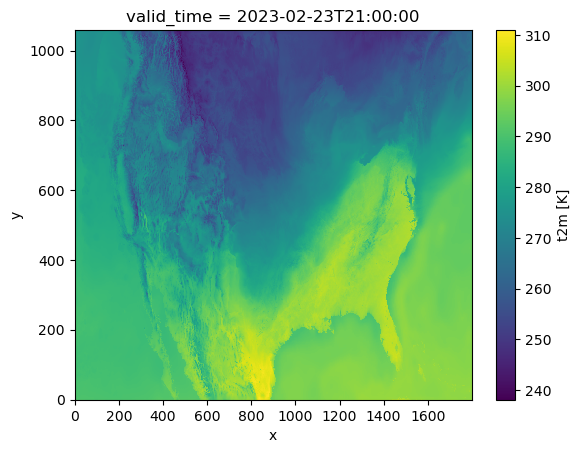
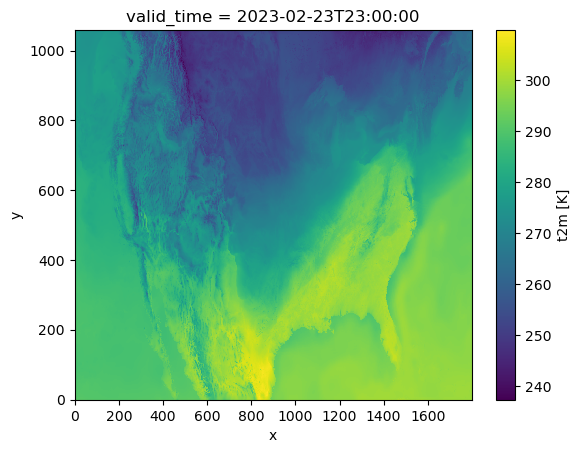
deploy: accb1b0d60847b492e0cbcad3e878b663cbc4773

diff --git a/_preview/21/searchindex.js b/_preview/21/searchindex.js
@@ -1,1 +1,1 @@
-Search.setIndex({docnames:["README","notebooks/case_studies/ARG_Weather","notebooks/case_studies/HRRR","notebooks/foundations/kerchunk_basics","notebooks/foundations/kerchunk_dask","notebooks/foundations/kerchunk_multi_file"],envversion:{"sphinx.domains.c":2,"sphinx.domains.changeset":1,"sphinx.domains.citation":1,"sphinx.domains.cpp":5,"sphinx.domains.index":1,"sphinx.domains.javascript":2,"sphinx.domains.math":2,"sphinx.domains.python":3,"sphinx.domains.rst":2,"sphinx.domains.std":2,"sphinx.ext.intersphinx":1,sphinx:56},filenames:["README.md","notebooks/case_studies/ARG_Weather.ipynb","notebooks/case_studies/HRRR.ipynb","notebooks/foundations/kerchunk_basics.ipynb","notebooks/foundations/kerchunk_dask.ipynb","notebooks/foundations/kerchunk_multi_file.ipynb"],objects:{},objnames:{},objtypes:{},terms:{"0":[1,2,4,5],"00":[1,2],"01":[1,2,3],"02":2,"03":2,"04":2,"05":2,"06":2,"07":2,"08":2,"0x7f90947226e0":3,"0x7fe0fcae5ea0":2,"0x7fe0fcb2d630":2,"1":[1,2,4,5],"10":[1,2],"100":[2,3],"11":2,"12":[1,2],"127":4,"13":2,"13km":2,"14":2,"15":2,"16":[2,3],"17":2,"18":2,"19":2,"2":[1,2],"20":2,"2022":1,"2023":1,"20230223":2,"2060":[3,4,5],"21":2,"225":4,"24":2,"25":2,"26":[1,2,3],"29":2,"3":[2,4],"30":2,"300":[1,4,5],"31":1,"32":2,"33":2,"34":2,"35":2,"36":4,"38":2,"3km":2,"4":2,"40":[2,4],"42":2,"43":2,"44":2,"45":[1,2,4],"46":2,"48":2,"4km":1,"4x":4,"5":2,"50":2,"500":[1,2],"52":2,"53":2,"54":[2,4],"55":2,"56":2,"57":2,"58":2,"5kb":3,"6":2,"60":[3,5],"62":2,"67":2,"7":2,"71":2,"72":1,"76":2,"77":2,"8":[2,4],"80":2,"81":2,"86":2,"8787":4,"88":2,"89":2,"8mb":3,"9":2,"90":2,"92":2,"95":2,"byte":[0,3],"case":[3,4],"class":5,"default":5,"do":[1,5],"final":5,"function":[0,1,2,4,5],"import":[0,4],"meteorol\u00f3gico":1,"new":[0,5],"public":[3,5],"return":[1,2,4,5],"short":3,"super":4,"true":[1,2,3,4,5],"try":4,"while":3,A:4,As:[3,4],By:4,For:[0,1,4],IS:5,If:[0,1],In:[0,1,3,4,5],It:4,One:[2,4],The:[0,1,2,3,4,5],There:4,These:[0,3,4],To:[1,2,4],With:4,_:2,_messag:2,abl:0,about:[3,4],abov:1,access:[0,1,2,3,5],across:[1,4,5],act:5,activ:0,ad:[0,2,5],add:0,addit:3,addition:4,address:4,adopt:1,affect:4,afilt:2,after:[0,5],agenc:1,ak:[3,4,5],alaska:[3,4,5],all:[0,1,2,4,5],allow:[0,2,4],along:[1,3,4,5],also:[2,3],altern:[0,1,5],although:1,amount:1,an:[0,1,2,3,4,5],analysi:[0,1,2],ani:[3,4,5],anon:[1,2,3,4,5],anoth:2,anyon:5,anywher:3,api:3,append:[0,1,2,5],ar5:[3,4,5],ar:[0,1,2,3,4,5],archiv:[0,2,4,5],arco:[0,1,2],arg:1,arg_combin:1,argentina:1,argument:[2,3,4,5],assimil:2,atmospher:[1,2],auto_dask:4,avail:[0,2,4,5],avoid:3,aw:[1,2,3,4,5],axi:5,back:5,backend:0,backend_kwarg:[2,3,5],base:5,basic:[1,2,4,5],bdp:2,becaus:5,been:1,befor:[1,4],being:[0,1,4],below:[3,4],benchmark:4,benefit:0,better:4,between:3,binari:2,bit:4,block:[1,3,5],book:0,borrow:2,breakdown:1,broken:0,bucket:[3,5],bui:3,build:5,built:[4,5],bunch:4,cach:3,call:[4,5],can:[0,1,2,3,4],ccsm:[3,4,5],cd:0,cell:[0,1,2,3,4],center:1,certain:2,chang:0,chapter:0,check:[1,4],choos:5,chunk:[0,2,3],click:0,climat:[3,4,5],clone:0,cloud:[0,1,2,3,4,5],code:[0,1,4],cog:0,collect:[0,2,3,5],com:0,combin:[0,4],combined_kerchunk:5,combined_refer:5,commun:1,comparison:4,compat:[2,4],complet:0,compon:2,compress:[0,3],comput:[0,4],concat_dim:[1,2,5],concaten:[1,5],concept:[1,2,3,4,5],conda:0,confus:1,connect:3,consider:1,consolid:[1,2,3,5],contain:2,content:[0,3],contribut:0,conu:2,convect:2,conveni:4,coordin:2,copi:[0,2,5],core:[1,2,4],corner:0,could:[0,1,2,3,4,5],countless:4,countri:1,cover:[0,1,2,4,5],creat:[0,3,4],creation:4,creator:0,credenti:3,current:0,dai:[2,4,5],daili:[1,3,4,5],dashboard:4,dask:[0,1,5],data:[0,1,2,3],dataset:[0,4],date:2,datetim:2,days_avail:2,de:1,def:[1,2,4,5],default_cache_typ:[1,3,4,5],default_fill_cach:[1,3,4,5],defin:4,definit:3,delai:4,demonstr:[0,3,4],depend:4,describ:0,det:1,detail:[0,1,2,3,4,5],determinist:1,develop:0,dict:[1,2,3,4,5],dictionari:[1,3,5],dimens:[1,2,5],direct:1,directori:[0,1,5],disk:[1,3,5],disribut:4,distribut:4,dive:0,doc:[0,3],document:0,doe:2,doesn:5,don:3,download:3,downscal:[3,4],ds:[1,2,3,5],dt:2,dump:[1,2,3,4,5],durant:0,each:[0,1,2,4,5],eagerli:4,earlier:4,earth:1,easier:2,east:5,eastern:4,ecosystem:4,effici:[2,3],either:0,els:5,enabl:0,encod:[1,2,3,4,5],end:4,engin:[1,2,3,5],enhanc:2,ensur:[2,5],enter:0,enumer:2,env:0,environ:0,error:4,etc:1,even:[0,4,5],everi:2,ex:5,examin:[2,3],exampl:[0,1,2,3,4,5],execut:0,expect:5,explicit:5,explor:4,extract:[0,3],f:[0,1,2,3,4,5],factor:4,fals:[1,2,3,4,5],far:4,faster:4,featur:[3,5],few:[3,4,5],fil:[1,4,5],file:[0,4],file_pattern:[1,4],file_url:2,filelist:[1,2,5],filenam:5,files_path:[1,4,5],filesystem:[1,2,3,4,5],filesytem:5,filter:2,first:[0,1,2,3,4,5],fit:0,fname:[1,4,5],fo:[1,2,3,5],follow:[0,1,3,4],form:2,format:[0,1,2,3],fortun:[1,4],found:[1,3,5],foundat:1,four:2,from:[0,1,2,3,4],fs:[1,2,3,5],fs_read:[1,2,4,5],fs_write:[1,2,4,5],fsspec:[1,2,4],further:[2,4],gen_json:2,gener:[0,1,2,4],generate_json_refer:[1,4,5],geograph:4,get:[0,2,5],get_mapp:[1,2,3,5],gist:2,git:0,github:0,give:3,given:[4,5],glob:[1,2,4,5],good:[1,5],got:4,grab:1,greatli:4,grib2:0,grib:2,grid:2,gritti:0,guid:4,h5chunk:[1,3,4,5],h5netcdf:1,h:2,ha:[1,4],had:5,hagen:0,happen:[0,4],happili:2,hard:4,have:[0,1,3,4],hdf5:[0,2,3],hdf:[1,3,4,5],heavili:2,heightaboveground:2,help:[3,4],here:[1,2,3,4],hour:1,hourli:[1,2],how:[0,1,2,3,4,5],howev:[2,4,5],hrrr_combin:2,http:[0,4],hub:4,huge:1,humid:1,i:2,icon:0,idea:0,ident:2,identical_dim:[1,2,5],improv:4,includ:[0,4],index:4,indic:[1,2],indici:4,individu:[1,2,5],inf:3,infil:[1,4,5],inform:[0,2,3,4,5],initi:[1,2,4,5],inline_threshold:[1,2,3,4,5],input:[3,4],inspir:0,instal:0,instead:[0,4,5],intak:[1,2],integr:4,intend:[3,4,5],interact:0,interest:[0,2],internet:4,interp_level:5,interv:1,intro:4,introduct:[1,2,3,4,5],io:[1,2,4,5],isel:[1,5],issu:0,iter:[1,4,5],its:4,json:[0,3,4],json_dir:[2,4],jupyt:0,jupyterlab:0,just:[4,5],keep:[3,5],kerchunk_bas:1,km:2,know:[0,1,2],kwarg:[1,4],lab:[0,1],laptop:4,larg:[3,4],larger:4,later:[1,5],latest:2,latitud:2,launch:0,lazi:4,lead:1,learn:[1,2,3,4,5],legaci:[1,2],len:5,let:4,level:[1,2],librari:[0,3,4,5],like:[0,4],limit:4,line2d:2,line:[1,2,4],list:4,live:[0,2],ll:0,local:[0,1,2,3,4,5],locat:4,log:4,logic:1,longer:5,longitud:2,look:4,loop:[2,4,5],lower:3,m:[1,2,5],machin:4,magnitud:1,mai:[3,4,5],make:[2,4],make_json_nam:2,mani:[0,1,2,3,4],map:[2,3,5],mapper:5,marsh:2,martin:0,match:5,materi:0,matplotlib:[2,3],maximum:1,mean:4,meant:4,measur:2,memori:[1,3,5],messag:2,message_numb:2,metadata:3,meteorolog:2,method:[1,3,4,5],min:2,minut:[1,2,3,4,5],mode:[1,4,5],model:[1,2],modifi:4,moment:0,monitor:4,more:[0,1,4],most:1,mous:0,move:0,much:[0,1,3],multi:[0,1,2,4],multi_kerchunk:[1,2,5],multipl:[1,2,4,5],multizarrtozarr:[1,2,4,5],mutipl:2,mzz:[1,2,5],n_worker:4,nacion:1,name:[2,3,4,5],nation:2,navig:[0,4],nc:[1,3,4,5],neccassari:2,necessari:5,necessarili:2,need:[0,1,3,5],neighbor:1,netcdf3:0,netcdf4:[0,1,3,4],netcdf:[2,4],newli:0,next:[1,2,3],nitti:0,note:[0,1,2,3,4],notebook:[1,2,3,4,5],now:[0,1,5],number:1,object:[2,4,5],off:5,onc:4,one:[1,2,4],onli:[1,2,3,5],open:[0,1,2,3,4],open_dataset:[1,2,3,5],oper:1,optim:[0,1,2,4],option:[1,2,3],origin:[3,5],other:[1,4],our:[2,3,5],out:[1,2,3,4],out_file_nam:2,outf:[1,4,5],output:[0,1,2,3],output_dir:[1,4,5],output_fil:[1,5],output_fnam:[1,2,5],over:[1,2,4,5],page:0,parallel:[0,2,5],parquet:[0,4],pass:[1,2,3,4,5],path:2,pd:2,per:[2,4],perform:4,period:2,peter:2,piec:5,plai:4,pleas:[0,1],plot:1,point:[1,3,4,5],popul:4,possibl:0,pr:0,precipit:1,predict:1,prefix:[1,2,4,5],prepend:[1,4,5],present:0,press:0,previou:5,primari:[0,2],principl:1,print:5,process:[0,3,5],product:3,program:0,progress:[4,5],project:0,projectpythia:0,proven:3,provid:2,pure:1,pythia:0,python:[3,4],quadmesh:[2,3],radar:2,rang:[0,3],raphael:0,rapidli:0,rb:[1,4,5],rcp85:[3,4,5],re:4,read:[0,1,2,3,4,5],readi:[0,2,4],real:2,rechunk:5,recip:5,recommend:[1,2,4,5],record:[1,2,5],reduc:[1,2],refer:[0,4],reference_json:2,refernec:5,region:1,registri:2,rel:1,releas:[0,2],remind:4,remot:[1,2,3,5],remote_opt:[1,2,3,5],remote_protocol:[1,2,3,5],repeat:5,replac:5,repo:0,repositori:0,repr:1,requir:[1,2,4,5],resolv:2,resourc:4,result:5,retriev:[2,4,5],reus:5,right:0,rocket:0,run:[4,5],s3:[1,2,3,4,5],s3f:[1,3,5],s3filesystem:1,s:[1,3,4],sai:4,same:4,save:[1,3,5],scale:4,scan:[1,3],scan_grib:2,schedul:0,scienc:1,scientif:1,se:[3,4,5],second:4,section:[1,2,3,4],see:[0,1,2,3,4],select:[0,1,2,5],separ:[2,5],serial:4,servicio:1,set:[0,1,2,3,5],setup:4,share:[1,2,5],shift:0,ship:0,should:[0,4],show:4,silence_log:4,similar:[1,2,5],simpl:5,simplest:0,simpli:0,simplifi:5,sinc:[2,5],singl:[0,2,4,5],single_file_kerchunk:3,singlehdf5tozarr:[1,3,4,5],size:3,skip_instance_cach:[1,2,3,4,5],slice:[1,3],slightli:4,small:4,smn:1,snow:5,so:[1,2,3,4,5],some:[0,1,2,4,5],someth:4,sort:[1,2,4,5],sourc:[0,4],south:[4,5],southern:5,spatial:1,spec:[0,3],special:0,specif:[0,1,5],specifi:[3,5],specifii:1,speed:[1,2,4],speedup:[1,4,5],split:[1,2,4,5],start:[0,5],statu:4,step:[1,2,3,5],storag:[0,1],storage_opt:2,store:[3,5],storeg:1,str:[1,4,5],strategi:3,strictli:5,string:[1,5],strip:[1,4,5],studi:4,summari:0,suppli:5,support:[0,1,2],sure:0,system:[2,3,5],t00z:2,t01z:2,t02z:2,t03z:2,t04z:2,t05z:2,t06z:2,t07z:2,t08z:2,t09z:2,t10z:2,t11z:2,t12z:2,t13z:2,t14z:2,t15z:2,t16z:2,t17z:2,t18z:2,t19z:2,t20z:2,t2:1,t2m:2,t:[3,5],tack:5,take:4,tell:1,temperatur:[1,2],temporari:5,tend:3,thank:0,thei:[0,1,2,3,5],them:[0,1,2,5],thi:[0,1,2,3,4],those:[3,5],though:4,through:[0,1,3,4,5],thu:2,tiff:0,time:[2,3,5],tmax:3,too:3,took:4,top:0,tqdm:[1,2,5],translat:[1,2,3,4,5],tslb:1,tune:4,tutori:[0,3,4,5],twice:1,two:[0,4],type:[2,4,5],typeoflevel:2,typic:[3,5],u:[1,5],ujson:[1,2,3,4,5],uncom:[1,2],underli:3,understand:4,uniqu:2,univers:1,until:0,up:[0,1,2],updat:2,upon:4,url:[1,3,5],us:[0,3,4],usag:3,usual:4,utc:1,valid_tim:2,vari:[4,5],variabl:[1,2,5],veri:3,version:4,via:[0,2],view:[0,1],virtual:[0,3,4,5],visual:[1,2,4,5],vs:4,w:2,wa:0,wai:[0,4,5],walk:4,want:3,water:2,wb:[1,2,3,4,5],we:[0,1,2,3,4],weather:2,well:[0,1,3,4,5],were:[0,1,2,3,4,5],what:[0,1,4],when:[1,2,3,4],where:4,which:[0,1,2,4],whole:3,wildcard:[1,5],wind:1,wish:4,within:[1,2],without:[3,5],work:[0,5],worker:4,workflow:[0,5],worri:3,would:0,wrf:[1,3,4,5],wrfdetar_01h_20221231_00_072:1,wrfds_2060:3,wrfsfcf01:2,write:[0,3,4],written:[1,3],x:1,xarrai:[0,1,2,3,4],xlat:5,xlong:5,xr:[1,2,3,4,5],y:1,year:4,yml:0,you:[0,1,3,4],your:4,zarr:[0,1,2,3,5]},titles:["Kerchunk Cookbook","Kerchunk and NetCDF/HDF5:  A Case Study using the Argentinian High Resolution Weather Forecast Dataset","Kerchunk and GRIB2:  A Case Study using NOAA\u2019s High-Resolution Rapid Refresh (HRRR) Dataset","Kerchunk Basics","Kerchunk and Dask","Multi-File Datasets with Kerchunk"],titleterms:{"1":0,"2":0,"365":5,"7":5,"case":[0,1,2],"import":[1,2,3,5],"try":5,A:[1,2],As:5,If:5,To:5,about:[1,2],addit:0,argentinian:1,author:0,basic:3,befor:5,below:5,binder:0,build:4,can:5,cell:5,chang:4,check:5,client:4,climt:5,code:5,combin:[1,2,5],contributor:0,cookbook:0,creat:[1,2,5],dask:4,data:[4,5],dataset:[1,2,3,5],defin:[3,5],downscal:5,everi:5,examin:[1,5],file:[1,2,3,5],file_pattern:5,forecast:1,foundat:0,from:5,fsspec:[3,5],futur:[0,5],gener:5,go:5,graph:4,grib2:2,have:5,hdf5:1,here:5,high:[1,2],hrrr:2,index:[1,5],indici:2,input:[1,2,5],iter:2,json:[1,2,5],kerchunk:[0,1,2,3,4,5],kwarg:[3,5],like:5,list:[1,2,5],load:[1,2,3],look:5,machin:0,map:1,motiv:[0,1,2],multi:5,netcdf:[1,3,5],next:[4,5],noaa:2,note:5,notebook:0,off:4,one:5,open:5,option:5,our:4,output:5,overview:[1,2,3,4,5],own:0,parallel:4,pars:3,path:5,pattern:5,plot:[2,3,5],prerequisit:[1,2,3,4,5],previou:4,process:4,quick:5,rapid:2,reduc:5,refer:[1,2,3,5],refresh:2,resolut:[1,2],run:0,s:[2,5],section:[0,5],seri:1,set:4,should:5,singl:[1,3],slice:[2,5],snippet:5,specif:4,speed:5,start:4,step:4,structur:0,studi:[0,1,2],subset:4,task:4,thi:5,through:2,time:[1,4],uncom:5,up:[4,5],us:[1,2,5],view:5,want:5,we:5,weather:1,week:5,which:5,wishlist:0,work:4,worth:5,write:[1,2,5],xarrai:5,year:5,you:5,your:0}})
+Search.setIndex({docnames:["README","notebooks/case_studies/ARG_Weather","notebooks/case_studies/HRRR","notebooks/foundations/kerchunk_basics","notebooks/foundations/kerchunk_dask","notebooks/foundations/kerchunk_multi_file"],envversion:{"sphinx.domains.c":2,"sphinx.domains.changeset":1,"sphinx.domains.citation":1,"sphinx.domains.cpp":5,"sphinx.domains.index":1,"sphinx.domains.javascript":2,"sphinx.domains.math":2,"sphinx.domains.python":3,"sphinx.domains.rst":2,"sphinx.domains.std":2,"sphinx.ext.intersphinx":1,sphinx:56},filenames:["README.md","notebooks/case_studies/ARG_Weather.ipynb","notebooks/case_studies/HRRR.ipynb","notebooks/foundations/kerchunk_basics.ipynb","notebooks/foundations/kerchunk_dask.ipynb","notebooks/foundations/kerchunk_multi_file.ipynb"],objects:{},objnames:{},objtypes:{},terms:{"0":[1,2,4,5],"00":[1,2],"01":[1,2,3],"02":2,"03":2,"04":2,"05":2,"06":2,"07":2,"08":2,"0x7f0d3cbeb1f0":3,"0x7fea5831fb20":2,"0x7fea58596d70":2,"1":[1,2,4,5],"10":[1,2],"100":[2,3],"11":2,"12":[1,2],"127":4,"13":2,"13km":2,"14":2,"15":2,"16":[2,3],"17":2,"18":2,"19":2,"2":[1,2],"20":2,"2022":1,"2023":1,"20230223":2,"2060":[3,4,5],"21":2,"22":2,"225":4,"23":2,"25":2,"26":[1,2,3],"27":2,"28":2,"29":2,"3":[2,4],"30":2,"300":[1,4,5],"31":[1,2],"33":2,"34":2,"35":2,"36":[2,4],"37":2,"38":2,"39":2,"3km":2,"4":2,"40":[2,4],"41":2,"42":2,"43":2,"44":2,"45":[1,2,4],"46":2,"47":2,"48":2,"4km":1,"4x":4,"5":2,"500":[1,2],"51":2,"52":2,"54":[2,4],"55":2,"57":2,"58":2,"59":2,"5kb":3,"6":2,"60":[3,5],"61":2,"65":2,"7":2,"70":2,"72":[1,2],"74":2,"78":2,"8":[2,4],"83":2,"84":2,"85":2,"87":2,"8787":4,"88":2,"8mb":3,"9":2,"91":2,"92":2,"96":2,"99":2,"byte":[0,3],"case":[3,4],"class":5,"default":5,"do":[1,5],"final":5,"function":[0,1,2,4,5],"import":[0,4],"meteorol\u00f3gico":1,"new":[0,5],"public":[3,5],"return":[1,2,4,5],"short":3,"super":4,"true":[1,2,3,4,5],"try":4,"while":3,A:4,As:[3,4],By:4,For:[0,1,4],IS:5,If:[0,1],In:[0,1,3,4,5],It:4,One:[2,4],The:[0,1,2,3,4,5],There:4,These:[0,3,4],To:[1,2,4],With:4,_:2,_messag:2,abl:0,about:[3,4],abov:1,access:[0,1,2,3,5],across:[1,4,5],act:5,activ:0,ad:[0,2,5],add:0,addit:3,addition:4,address:4,adopt:1,affect:4,afilt:2,after:[0,5],agenc:1,ak:[3,4,5],alaska:[3,4,5],all:[0,1,2,4,5],allow:[0,2,4],along:[1,3,4,5],also:[2,3],altern:[0,1,5],although:1,amount:1,an:[0,1,2,3,4,5],analysi:[0,1,2],ani:[3,4,5],anon:[1,2,3,4,5],anoth:2,anyon:5,anywher:3,api:3,append:[0,1,2,5],ar5:[3,4,5],ar:[0,1,2,3,4,5],archiv:[0,2,4,5],arco:[0,1,2],arg:1,arg_combin:1,argentina:1,argument:[2,3,4,5],assimil:2,atmospher:[1,2],auto_dask:4,avail:[0,2,4,5],avoid:3,aw:[1,2,3,4,5],axi:5,back:5,backend:0,backend_kwarg:[2,3,5],base:5,basic:[1,2,4,5],bdp:2,becaus:5,been:1,befor:[1,4],being:[0,1,4],below:[3,4],benchmark:4,benefit:0,better:4,between:3,binari:2,bit:4,block:[1,3,5],book:0,borrow:2,breakdown:1,broken:0,bucket:[3,5],bui:3,build:5,built:[4,5],bunch:4,cach:3,call:[4,5],can:[0,1,2,3,4],ccsm:[3,4,5],cd:0,cell:[0,1,2,3,4],center:1,certain:2,chang:0,chapter:0,check:[1,4],choos:5,chunk:[0,2,3],click:0,climat:[3,4,5],clone:0,cloud:[0,1,2,3,4,5],code:[0,1,4],cog:0,collect:[0,2,3,5],com:0,combin:[0,4],combined_kerchunk:5,combined_refer:5,commun:1,comparison:4,compat:[2,4],complet:0,compon:2,compress:[0,3],comput:[0,4],concat_dim:[1,2,5],concaten:[1,5],concept:[1,2,3,4,5],conda:0,confus:1,connect:3,consider:1,consolid:[1,2,3,5],contain:2,content:[0,3],contribut:0,conu:2,convect:2,conveni:4,coordin:2,copi:[0,2,5],core:[1,2,4],corner:0,could:[0,1,2,3,4,5],countless:4,countri:1,cover:[0,1,2,4,5],creat:[0,3,4],creation:4,creator:0,credenti:3,current:0,dai:[2,4,5],daili:[1,3,4,5],dashboard:4,dask:[0,1,5],data:[0,1,2,3],dataset:[0,4],date:2,datetim:2,days_avail:2,de:1,def:[1,2,4,5],default_cache_typ:[1,3,4,5],default_fill_cach:[1,3,4,5],defin:4,definit:3,delai:4,demonstr:[0,3,4],depend:4,describ:0,det:1,detail:[0,1,2,3,4,5],determinist:1,develop:0,dict:[1,2,3,4,5],dictionari:[1,3,5],dimens:[1,2,5],direct:1,directori:[0,1,5],disk:[1,3,5],disribut:4,distribut:4,dive:0,doc:[0,3],document:0,doe:2,doesn:5,don:3,download:3,downscal:[3,4],ds:[1,2,3,5],dt:2,dump:[1,2,3,4,5],durant:0,each:[0,1,2,4,5],eagerli:4,earlier:4,earth:1,easier:2,east:5,eastern:4,ecosystem:4,effici:[2,3],either:0,els:5,enabl:0,encod:[1,2,3,4,5],end:4,engin:[1,2,3,5],enhanc:2,ensur:[2,5],enter:0,enumer:2,env:0,environ:0,error:4,etc:1,even:[0,4,5],everi:2,ex:5,examin:[2,3],exampl:[0,1,2,3,4,5],execut:0,expect:5,explicit:5,explor:4,extract:[0,3],f:[0,1,2,3,4,5],factor:4,fals:[1,2,3,4,5],far:4,faster:4,featur:[3,5],few:[3,4,5],fil:[1,4,5],file:[0,4],file_pattern:[1,4],file_url:2,filelist:[1,2,5],filenam:5,files_path:[1,4,5],filesystem:[1,2,3,4,5],filesytem:5,filter:2,first:[0,1,2,3,4,5],fit:0,fname:[1,4,5],fo:[1,2,3,5],follow:[0,1,3,4],form:2,format:[0,1,2,3],fortun:[1,4],found:[1,3,5],foundat:1,four:2,from:[0,1,2,3,4],fs:[1,2,3,5],fs_read:[1,2,4,5],fs_write:[1,2,4,5],fsspec:[1,2,4],further:[2,4],gen_json:2,gener:[0,1,2,4],generate_json_refer:[1,4,5],geograph:4,get:[0,2,5],get_mapp:[1,2,3,5],gist:2,git:0,github:0,give:3,given:[4,5],glob:[1,2,4,5],good:[1,5],got:4,grab:1,greatli:4,grib2:0,grib:2,grid:2,gritti:0,guid:4,h5chunk:[1,3,4,5],h5netcdf:1,h:2,ha:[1,4],had:5,hagen:0,happen:[0,4],happili:2,hard:4,have:[0,1,3,4],hdf5:[0,2,3],hdf:[1,3,4,5],heavili:2,heightaboveground:2,help:[3,4],here:[1,2,3,4],hour:1,hourli:[1,2],how:[0,1,2,3,4,5],howev:[2,4,5],hrrr_combin:2,http:[0,4],hub:4,huge:1,humid:1,i:2,icon:0,idea:0,ident:2,identical_dim:[1,2,5],improv:4,includ:[0,4],index:4,indic:[1,2],indici:4,individu:[1,2,5],inf:3,infil:[1,4,5],inform:[0,2,3,4,5],initi:[1,2,4,5],inline_threshold:[1,2,3,4,5],input:[3,4],inspir:0,instal:0,instead:[0,4,5],intak:[1,2],integr:4,intend:[3,4,5],interact:0,interest:[0,2],internet:4,interp_level:5,interv:1,intro:4,introduct:[1,2,3,4,5],io:[1,2,4,5],isel:[1,5],issu:0,iter:[1,4,5],its:4,json:[0,3,4],json_dir:[2,4],jupyt:0,jupyterlab:0,just:[4,5],keep:[3,5],kerchunk_bas:1,km:2,know:[0,1,2],kwarg:[1,4],lab:[0,1],laptop:4,larg:[3,4],larger:4,later:[1,5],latest:2,latitud:2,launch:0,lazi:4,lead:1,learn:[1,2,3,4,5],legaci:[1,2],len:5,let:4,level:[1,2],librari:[0,3,4,5],like:[0,4],limit:4,line2d:2,line:[1,2,4],list:4,live:[0,2],ll:0,local:[0,1,2,3,4,5],locat:4,log:4,logic:1,longer:5,longitud:2,look:4,loop:[2,4,5],lower:3,m:[1,2,5],machin:4,magnitud:1,mai:[3,4,5],make:[2,4],make_json_nam:2,mani:[0,1,2,3,4],map:[2,3,5],mapper:5,marsh:2,martin:0,match:5,materi:0,matplotlib:[2,3],maximum:1,mean:4,meant:4,measur:2,memori:[1,3,5],messag:2,message_numb:2,metadata:3,meteorolog:2,method:[1,3,4,5],min:2,minut:[1,2,3,4,5],mode:[1,4,5],model:[1,2],modifi:4,moment:0,monitor:4,more:[0,1,4],most:1,mous:0,move:0,much:[0,1,3],multi:[0,1,2,4],multi_kerchunk:[1,2,5],multipl:[1,2,4,5],multizarrtozarr:[1,2,4,5],mutipl:2,mzz:[1,2,5],n_worker:4,nacion:1,name:[2,3,4,5],nation:2,navig:[0,4],nc:[1,3,4,5],neccassari:2,necessari:5,necessarili:2,need:[0,1,3,5],neighbor:1,netcdf3:0,netcdf4:[0,1,3,4],netcdf:[2,4],newli:0,next:[1,2,3],nitti:0,note:[0,1,2,3,4],notebook:[1,2,3,4,5],now:[0,1,5],number:1,object:[2,4,5],off:5,onc:4,one:[1,2,4],onli:[1,2,3,5],open:[0,1,2,3,4],open_dataset:[1,2,3,5],oper:1,optim:[0,1,2,4],option:[1,2,3],origin:[3,5],other:[1,4],our:[2,3,5],out:[1,2,3,4],out_file_nam:2,outf:[1,4,5],output:[0,1,2,3],output_dir:[1,4,5],output_fil:[1,5],output_fnam:[1,2,5],over:[1,2,4,5],page:0,parallel:[0,2,5],parquet:[0,4],pass:[1,2,3,4,5],path:2,pd:2,per:[2,4],perform:4,period:2,peter:2,piec:5,plai:4,pleas:[0,1],plot:1,point:[1,3,4,5],popul:4,possibl:0,pr:0,precipit:1,predict:1,prefix:[1,2,4,5],prepend:[1,4,5],present:0,press:0,previou:5,primari:[0,2],principl:1,print:5,process:[0,3,5],product:3,program:0,progress:[4,5],project:0,projectpythia:0,proven:3,provid:2,pure:1,pythia:0,python:[3,4],quadmesh:[2,3],radar:2,rang:[0,3],raphael:0,rapidli:0,rb:[1,4,5],rcp85:[3,4,5],re:4,read:[0,1,2,3,4,5],readi:[0,2,4],real:2,rechunk:5,recip:5,recommend:[1,2,4,5],record:[1,2,5],reduc:[1,2],refer:[0,4],reference_json:2,refernec:5,region:1,registri:2,rel:1,releas:[0,2],remind:4,remot:[1,2,3,5],remote_opt:[1,2,3,5],remote_protocol:[1,2,3,5],repeat:5,replac:5,repo:0,repositori:0,repr:1,requir:[1,2,4,5],resolv:2,resourc:4,result:5,retriev:[2,4,5],reus:5,right:0,rocket:0,run:[4,5],s3:[1,2,3,4,5],s3f:[1,3,5],s3filesystem:1,s:[1,3,4],sai:4,same:4,save:[1,3,5],scale:4,scan:[1,3],scan_grib:2,schedul:0,scienc:1,scientif:1,se:[3,4,5],second:4,section:[1,2,3,4],see:[0,1,2,3,4],select:[0,1,2,5],separ:[2,5],serial:4,servicio:1,set:[0,1,2,3,5],setup:4,share:[1,2,5],shift:0,ship:0,should:[0,4],show:4,silence_log:4,similar:[1,2,5],simpl:5,simplest:0,simpli:0,simplifi:5,sinc:[2,5],singl:[0,2,4,5],single_file_kerchunk:3,singlehdf5tozarr:[1,3,4,5],size:3,skip_instance_cach:[1,2,3,4,5],slice:[1,3],slightli:4,small:4,smn:1,snow:5,so:[1,2,3,4,5],some:[0,1,2,4,5],someth:4,sort:[1,2,4,5],sourc:[0,4],south:[4,5],southern:5,spatial:1,spec:[0,3],special:0,specif:[0,1,5],specifi:[3,5],specifii:1,speed:[1,2,4],speedup:[1,4,5],split:[1,2,4,5],start:[0,5],statu:4,step:[1,2,3,5],storag:[0,1],storage_opt:2,store:[3,5],storeg:1,str:[1,4,5],strategi:3,strictli:5,string:[1,5],strip:[1,4,5],studi:4,summari:0,suppli:5,support:[0,1,2],sure:0,system:[2,3,5],t00z:2,t01z:2,t02z:2,t03z:2,t04z:2,t05z:2,t06z:2,t07z:2,t08z:2,t09z:2,t10z:2,t11z:2,t12z:2,t13z:2,t14z:2,t15z:2,t16z:2,t17z:2,t18z:2,t19z:2,t20z:2,t21z:2,t22z:2,t2:1,t2m:2,t:[3,5],tack:5,take:4,tell:1,temperatur:[1,2],temporari:5,tend:3,thank:0,thei:[0,1,2,3,5],them:[0,1,2,5],thi:[0,1,2,3,4],those:[3,5],though:4,through:[0,1,3,4,5],thu:2,tiff:0,time:[2,3,5],tmax:3,too:3,took:4,top:0,tqdm:[1,2,5],translat:[1,2,3,4,5],tslb:1,tune:4,tutori:[0,3,4,5],twice:1,two:[0,4],type:[2,4,5],typeoflevel:2,typic:[3,5],u:[1,5],ujson:[1,2,3,4,5],uncom:[1,2],underli:3,understand:4,uniqu:2,univers:1,until:0,up:[0,1,2],updat:2,upon:4,url:[1,3,5],us:[0,3,4],usag:3,usual:4,utc:1,valid_tim:2,vari:[4,5],variabl:[1,2,5],veri:3,version:4,via:[0,2],view:[0,1],virtual:[0,3,4,5],visual:[1,2,4,5],vs:4,w:2,wa:0,wai:[0,4,5],walk:4,want:3,water:2,wb:[1,2,3,4,5],we:[0,1,2,3,4],weather:2,well:[0,1,3,4,5],were:[0,1,2,3,4,5],what:[0,1,4],when:[1,2,3,4],where:4,which:[0,1,2,4],whole:3,wildcard:[1,5],wind:1,wish:4,within:[1,2],without:[3,5],work:[0,5],worker:4,workflow:[0,5],worri:3,would:0,wrf:[1,3,4,5],wrfdetar_01h_20221231_00_072:1,wrfds_2060:3,wrfsfcf01:2,write:[0,3,4],written:[1,3],x:1,xarrai:[0,1,2,3,4],xlat:5,xlong:5,xr:[1,2,3,4,5],y:1,year:4,yml:0,you:[0,1,3,4],your:4,zarr:[0,1,2,3,5]},titles:["Kerchunk Cookbook","Kerchunk and NetCDF/HDF5:  A Case Study using the Argentinian High Resolution Weather Forecast Dataset","Kerchunk and GRIB2:  A Case Study using NOAA\u2019s High-Resolution Rapid Refresh (HRRR) Dataset","Kerchunk Basics","Kerchunk and Dask","Multi-File Datasets with Kerchunk"],titleterms:{"1":0,"2":0,"365":5,"7":5,"case":[0,1,2],"import":[1,2,3,5],"try":5,A:[1,2],As:5,If:5,To:5,about:[1,2],addit:0,argentinian:1,author:0,basic:3,befor:5,below:5,binder:0,build:4,can:5,cell:5,chang:4,check:5,client:4,climt:5,code:5,combin:[1,2,5],contributor:0,cookbook:0,creat:[1,2,5],dask:4,data:[4,5],dataset:[1,2,3,5],defin:[3,5],downscal:5,everi:5,examin:[1,5],file:[1,2,3,5],file_pattern:5,forecast:1,foundat:0,from:5,fsspec:[3,5],futur:[0,5],gener:5,go:5,graph:4,grib2:2,have:5,hdf5:1,here:5,high:[1,2],hrrr:2,index:[1,5],indici:2,input:[1,2,5],iter:2,json:[1,2,5],kerchunk:[0,1,2,3,4,5],kwarg:[3,5],like:5,list:[1,2,5],load:[1,2,3],look:5,machin:0,map:1,motiv:[0,1,2],multi:5,netcdf:[1,3,5],next:[4,5],noaa:2,note:5,notebook:0,off:4,one:5,open:5,option:5,our:4,output:5,overview:[1,2,3,4,5],own:0,parallel:4,pars:3,path:5,pattern:5,plot:[2,3,5],prerequisit:[1,2,3,4,5],previou:4,process:4,quick:5,rapid:2,reduc:5,refer:[1,2,3,5],refresh:2,resolut:[1,2],run:0,s:[2,5],section:[0,5],seri:1,set:4,should:5,singl:[1,3],slice:[2,5],snippet:5,specif:4,speed:5,start:4,step:4,structur:0,studi:[0,1,2],subset:4,task:4,thi:5,through:2,time:[1,4],uncom:5,up:[4,5],us:[1,2,5],view:5,want:5,we:5,weather:1,week:5,which:5,wishlist:0,work:4,worth:5,write:[1,2,5],xarrai:5,year:5,you:5,your:0}})

diff --git a/_preview/21/notebooks/case_studies/HRRR.html b/_preview/21/notebooks/case_studies/HRRR.html
@@ -565,7 +565,9 @@ Next we are using <code class="docutils literal notranslate"><span class="pre">f
  &#39;s3://noaa-hrrr-bdp-pds/hrrr.20230223/conus/hrrr.t17z.wrfsfcf01.grib2&#39;,
  &#39;s3://noaa-hrrr-bdp-pds/hrrr.20230223/conus/hrrr.t18z.wrfsfcf01.grib2&#39;,
  &#39;s3://noaa-hrrr-bdp-pds/hrrr.20230223/conus/hrrr.t19z.wrfsfcf01.grib2&#39;,
- &#39;s3://noaa-hrrr-bdp-pds/hrrr.20230223/conus/hrrr.t20z.wrfsfcf01.grib2&#39;]
+ &#39;s3://noaa-hrrr-bdp-pds/hrrr.20230223/conus/hrrr.t20z.wrfsfcf01.grib2&#39;,
+ &#39;s3://noaa-hrrr-bdp-pds/hrrr.20230223/conus/hrrr.t21z.wrfsfcf01.grib2&#39;,
+ &#39;s3://noaa-hrrr-bdp-pds/hrrr.20230223/conus/hrrr.t22z.wrfsfcf01.grib2&#39;]
 </pre></div>
 </div>
 </div>
@@ -616,73 +618,79 @@ Next we are using <code class="docutils literal notranslate"><span class="pre">f
 </div>
 </div>
 <div class="cell_output docutils container">
-<div class="output stderr highlight-myst-ansi notranslate"><div class="highlight"><pre><span></span>  0%|          | 0/21 [00:00&lt;?, ?it/s]
+<div class="output stderr highlight-myst-ansi notranslate"><div class="highlight"><pre><span></span>  0%|          | 0/23 [00:00&lt;?, ?it/s]
 </pre></div>
 </div>
-<div class="output stderr highlight-myst-ansi notranslate"><div class="highlight"><pre><span></span>  5%|▍         | 1/21 [00:14&lt;04:57, 14.88s/it]
+<div class="output stderr highlight-myst-ansi notranslate"><div class="highlight"><pre><span></span>  4%|▍         | 1/23 [00:22&lt;08:12, 22.37s/it]
 </pre></div>
 </div>
-<div class="output stderr highlight-myst-ansi notranslate"><div class="highlight"><pre><span></span> 10%|▉         | 2/21 [00:29&lt;04:34, 14.45s/it]
+<div class="output stderr highlight-myst-ansi notranslate"><div class="highlight"><pre><span></span>  9%|▊         | 2/23 [00:42&lt;07:26, 21.27s/it]
 </pre></div>
 </div>
-<div class="output stderr highlight-myst-ansi notranslate"><div class="highlight"><pre><span></span> 14%|█▍        | 3/21 [00:43&lt;04:17, 14.29s/it]
+<div class="output stderr highlight-myst-ansi notranslate"><div class="highlight"><pre><span></span> 13%|█▎        | 3/23 [01:03&lt;06:58, 20.92s/it]
 </pre></div>
 </div>
-<div class="output stderr highlight-myst-ansi notranslate"><div class="highlight"><pre><span></span> 19%|█▉        | 4/21 [00:58&lt;04:13, 14.88s/it]
+<div class="output stderr highlight-myst-ansi notranslate"><div class="highlight"><pre><span></span> 17%|█▋        | 4/23 [01:25&lt;06:47, 21.43s/it]
 </pre></div>
 </div>
-<div class="output stderr highlight-myst-ansi notranslate"><div class="highlight"><pre><span></span> 24%|██▍       | 5/21 [01:11&lt;03:43, 14.00s/it]
+<div class="output stderr highlight-myst-ansi notranslate"><div class="highlight"><pre><span></span> 22%|██▏       | 5/23 [01:44&lt;06:06, 20.38s/it]
 </pre></div>
 </div>
-<div class="output stderr highlight-myst-ansi notranslate"><div class="highlight"><pre><span></span> 29%|██▊       | 6/21 [01:24&lt;03:26, 13.77s/it]
+<div class="output stderr highlight-myst-ansi notranslate"><div class="highlight"><pre><span></span> 26%|██▌       | 6/23 [02:02&lt;05:37, 19.85s/it]
 </pre></div>
 </div>
-<div class="output stderr highlight-myst-ansi notranslate"><div class="highlight"><pre><span></span> 33%|███▎      | 7/21 [01:38&lt;03:12, 13.77s/it]
+<div class="output stderr highlight-myst-ansi notranslate"><div class="highlight"><pre><span></span> 30%|███       | 7/23 [02:22&lt;05:18, 19.92s/it]
 </pre></div>
 </div>
-<div class="output stderr highlight-myst-ansi notranslate"><div class="highlight"><pre><span></span> 38%|███▊      | 8/21 [01:53&lt;03:03, 14.11s/it]
+<div class="output stderr highlight-myst-ansi notranslate"><div class="highlight"><pre><span></span> 35%|███▍      | 8/23 [02:44&lt;05:06, 20.46s/it]
 </pre></div>
 </div>
-<div class="output stderr highlight-myst-ansi notranslate"><div class="highlight"><pre><span></span> 43%|████▎     | 9/21 [02:10&lt;03:00, 15.07s/it]
+<div class="output stderr highlight-myst-ansi notranslate"><div class="highlight"><pre><span></span> 39%|███▉      | 9/23 [03:07&lt;04:57, 21.27s/it]
 </pre></div>
 </div>
-<div class="output stderr highlight-myst-ansi notranslate"><div class="highlight"><pre><span></span> 48%|████▊     | 10/21 [02:25&lt;02:44, 14.92s/it]
+<div class="output stderr highlight-myst-ansi notranslate"><div class="highlight"><pre><span></span> 43%|████▎     | 10/23 [03:28&lt;04:33, 21.01s/it]
 </pre></div>
 </div>
-<div class="output stderr highlight-myst-ansi notranslate"><div class="highlight"><pre><span></span> 52%|█████▏    | 11/21 [02:40&lt;02:32, 15.21s/it]
+<div class="output stderr highlight-myst-ansi notranslate"><div class="highlight"><pre><span></span> 48%|████▊     | 11/23 [03:51&lt;04:20, 21.70s/it]
 </pre></div>
 </div>
-<div class="output stderr highlight-myst-ansi notranslate"><div class="highlight"><pre><span></span> 57%|█████▋    | 12/21 [02:56&lt;02:17, 15.32s/it]
+<div class="output stderr highlight-myst-ansi notranslate"><div class="highlight"><pre><span></span> 52%|█████▏    | 12/23 [04:13&lt;04:00, 21.88s/it]
 </pre></div>
 </div>
-<div class="output stderr highlight-myst-ansi notranslate"><div class="highlight"><pre><span></span> 62%|██████▏   | 13/21 [03:13&lt;02:07, 15.89s/it]
+<div class="output stderr highlight-myst-ansi notranslate"><div class="highlight"><pre><span></span> 57%|█████▋    | 13/23 [04:36&lt;03:43, 22.31s/it]
 </pre></div>
 </div>
-<div class="output stderr highlight-myst-ansi notranslate"><div class="highlight"><pre><span></span> 67%|██████▋   | 14/21 [03:29&lt;01:50, 15.80s/it]
+<div class="output stderr highlight-myst-ansi notranslate"><div class="highlight"><pre><span></span> 61%|██████    | 14/23 [04:58&lt;03:18, 22.06s/it]
 </pre></div>
 </div>
-<div class="output stderr highlight-myst-ansi notranslate"><div class="highlight"><pre><span></span> 71%|███████▏  | 15/21 [03:42&lt;01:30, 15.08s/it]
+<div class="output stderr highlight-myst-ansi notranslate"><div class="highlight"><pre><span></span> 65%|██████▌   | 15/23 [05:19&lt;02:54, 21.84s/it]
 </pre></div>
 </div>
-<div class="output stderr highlight-myst-ansi notranslate"><div class="highlight"><pre><span></span> 76%|███████▌  | 16/21 [03:57&lt;01:15, 15.06s/it]
+<div class="output stderr highlight-myst-ansi notranslate"><div class="highlight"><pre><span></span> 70%|██████▉   | 16/23 [05:39&lt;02:29, 21.34s/it]
 </pre></div>
 </div>
-<div class="output stderr highlight-myst-ansi notranslate"><div class="highlight"><pre><span></span> 81%|████████  | 17/21 [04:10&lt;00:57, 14.44s/it]
+<div class="output stderr highlight-myst-ansi notranslate"><div class="highlight"><pre><span></span> 74%|███████▍  | 17/23 [05:59&lt;02:04, 20.72s/it]
 </pre></div>
 </div>
-<div class="output stderr highlight-myst-ansi notranslate"><div class="highlight"><pre><span></span> 86%|████████▌ | 18/21 [04:25&lt;00:43, 14.58s/it]
+<div class="output stderr highlight-myst-ansi notranslate"><div class="highlight"><pre><span></span> 78%|███████▊  | 18/23 [06:19&lt;01:43, 20.65s/it]
 </pre></div>
 </div>
-<div class="output stderr highlight-myst-ansi notranslate"><div class="highlight"><pre><span></span> 90%|█████████ | 19/21 [04:40&lt;00:29, 14.55s/it]
+<div class="output stderr highlight-myst-ansi notranslate"><div class="highlight"><pre><span></span> 83%|████████▎ | 19/23 [06:40&lt;01:23, 20.83s/it]
 </pre></div>
 </div>
-<div class="output stderr highlight-myst-ansi notranslate"><div class="highlight"><pre><span></span> 95%|█████████▌| 20/21 [04:53&lt;00:14, 14.35s/it]
+<div class="output stderr highlight-myst-ansi notranslate"><div class="highlight"><pre><span></span> 87%|████████▋ | 20/23 [07:00&lt;01:01, 20.54s/it]
 </pre></div>
 </div>
-<div class="output stderr highlight-myst-ansi notranslate"><div class="highlight"><pre><span></span>100%|██████████| 21/21 [05:05&lt;00:00, 13.46s/it]
+<div class="output stderr highlight-myst-ansi notranslate"><div class="highlight"><pre><span></span> 91%|█████████▏| 21/23 [07:21&lt;00:41, 20.58s/it]
 </pre></div>
 </div>
-<div class="output stderr highlight-myst-ansi notranslate"><div class="highlight"><pre><span></span>100%|██████████| 21/21 [05:05&lt;00:00, 14.54s/it]
+<div class="output stderr highlight-myst-ansi notranslate"><div class="highlight"><pre><span></span> 96%|█████████▌| 22/23 [07:42&lt;00:20, 20.70s/it]
+</pre></div>
+</div>
+<div class="output stderr highlight-myst-ansi notranslate"><div class="highlight"><pre><span></span>100%|██████████| 23/23 [08:02&lt;00:00, 20.55s/it]
+</pre></div>
+</div>
+<div class="output stderr highlight-myst-ansi notranslate"><div class="highlight"><pre><span></span>100%|██████████| 23/23 [08:02&lt;00:00, 20.99s/it]
 </pre></div>
 </div>
 <div class="output stderr highlight-myst-ansi notranslate"><div class="highlight"><pre><span></span>
@@ -748,7 +756,7 @@ Next we are using <code class="docutils literal notranslate"><span class="pre">f
 </div>
 </div>
 <div class="cell_output docutils container">
-<div class="output text_plain highlight-myst-ansi notranslate"><div class="highlight"><pre><span></span>&lt;matplotlib.collections.QuadMesh at 0x7fe0fcb2d630&gt;
+<div class="output text_plain highlight-myst-ansi notranslate"><div class="highlight"><pre><span></span>&lt;matplotlib.collections.QuadMesh at 0x7fea58596d70&gt;
 </pre></div>
 </div>
 <img alt="../../_images/HRRR_22_1.png" src="../../_images/HRRR_22_1.png" />
@@ -761,7 +769,7 @@ Next we are using <code class="docutils literal notranslate"><span class="pre">f
 </div>
 </div>
 <div class="cell_output docutils container">
-<div class="output text_plain highlight-myst-ansi notranslate"><div class="highlight"><pre><span></span>[&lt;matplotlib.lines.Line2D at 0x7fe0fcae5ea0&gt;]
+<div class="output text_plain highlight-myst-ansi notranslate"><div class="highlight"><pre><span></span>[&lt;matplotlib.lines.Line2D at 0x7fea5831fb20&gt;]
 </pre></div>
 </div>
 <img alt="../../_images/HRRR_23_1.png" src="../../_images/HRRR_23_1.png" />

diff --git a/_preview/21/notebooks/foundations/kerchunk_basics.html b/_preview/21/notebooks/foundations/kerchunk_basics.html
@@ -518,7 +518,7 @@ In this tutorial we will:</p>
 </div>
 </div>
 <div class="cell_output docutils container">
-<div class="output text_plain highlight-myst-ansi notranslate"><div class="highlight"><pre><span></span>&lt;matplotlib.collections.QuadMesh at 0x7f90947226e0&gt;
+<div class="output text_plain highlight-myst-ansi notranslate"><div class="highlight"><pre><span></span>&lt;matplotlib.collections.QuadMesh at 0x7f0d3cbeb1f0&gt;
 </pre></div>
 </div>
 <img alt="../../_images/kerchunk_basics_13_1.png" src="../../_images/kerchunk_basics_13_1.png" />
